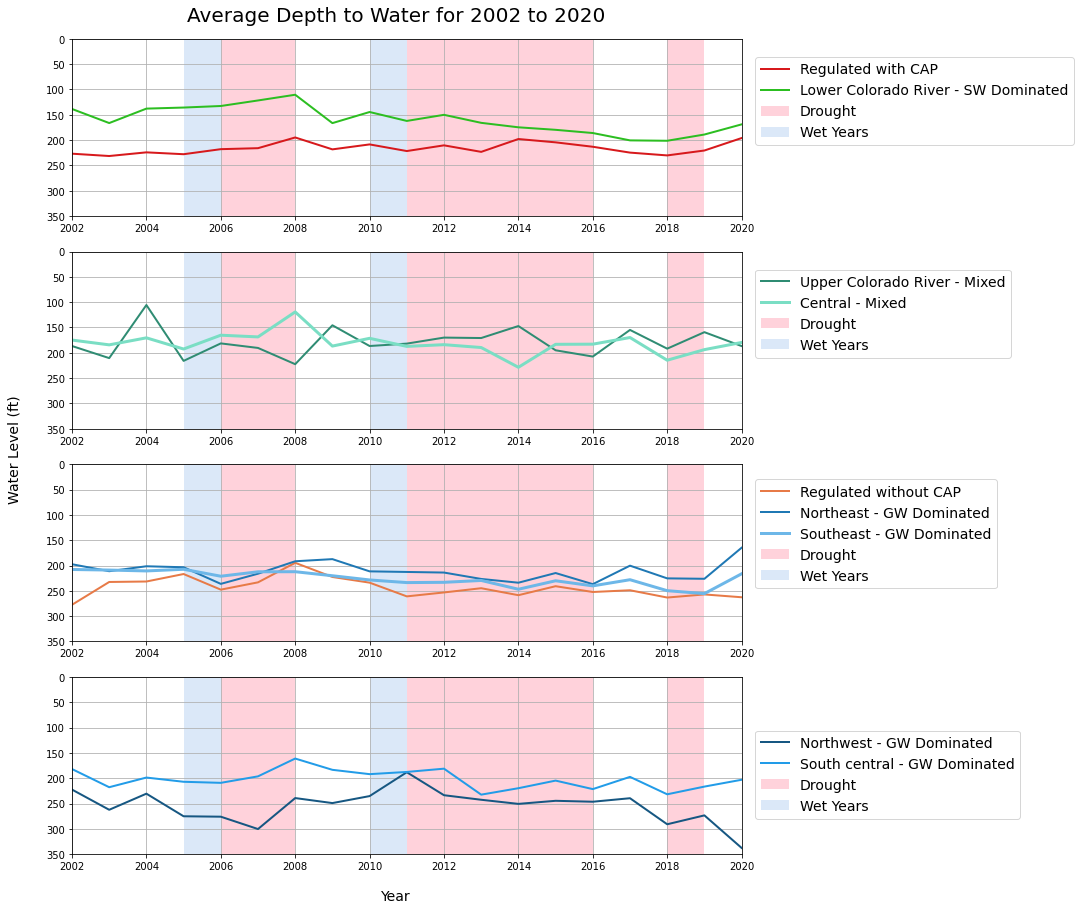
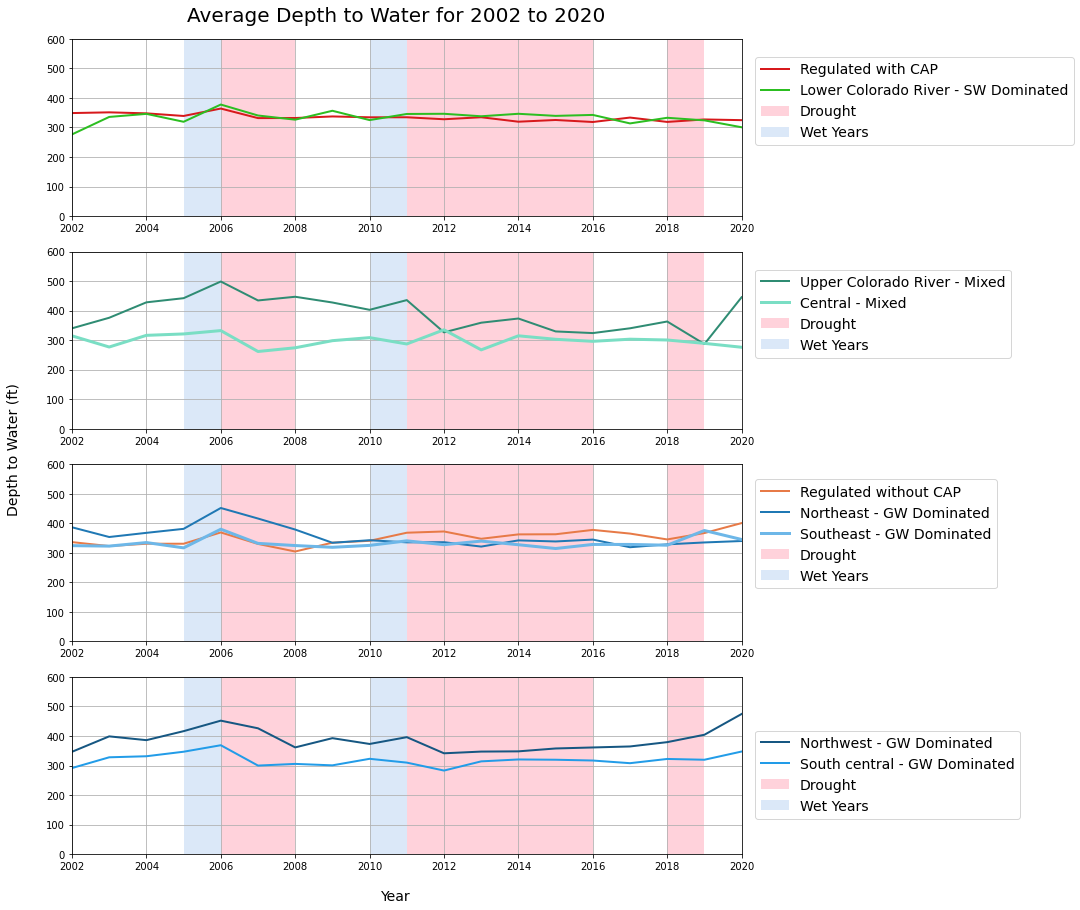
Fixing the for loop and generating more graphs

Changed region(s): [[0.0, 0.3077, 0.7028, 0.7077], [0.0306, 0.7692, 0.6722, 0.9231], [0.0306, 0.0615, 0.7028, 0.2154]]

diff --git a/SummaryCodes/Spatial_Analysis_Wells_FinalGeoreg.py b/SummaryCodes/Spatial_Analysis_Wells_FinalGeoreg.py
@@ -226,18 +226,45 @@ del cat_wl2_SW['GEOREGI_NU']
 # cat_wl2 = cat_wl2[1:]
 # del cat_wl2['GEO_Region']
 
-databases = [cat_wl2_georeg,cat_wl2_reg,cat_wl2_SW]
-for i in databases:
-        f = i.transpose()
-        # print(i)
-        f.reset_index(inplace=True)
-        f['index'] = pd.to_numeric(f['index'])
-        f['index'] = f['index'].astype(int)
-        f.set_index('index', inplace=True)
-        i = f
-        i.info()
+# databases = [cat_wl2_georeg,cat_wl2_reg,cat_wl2_SW]
+# for i in databases:
+#         # wlanalysis_period = cat_wl2[cat_wl2.index>=1975]
+#         f = i.transpose()
+#         # print(i)
+#         f.reset_index(inplace=True)
+#         f['index'] = pd.to_numeric(f['index'])
+#         f['index'] = f['index'].astype(int)
+#         f.set_index('index', inplace=True)
+#         f = f[f.index>=1975]
+#         i = f
+#         print(i.describe())
+
+i = cat_wl2_georeg
+f = i.transpose()
+f.reset_index(inplace=True)
+f['index'] = pd.to_numeric(f['index'])
+f['index'] = f['index'].astype(int)
+f.set_index('index', inplace=True)
+f.info()
+cat_wl2_georeg = f
         
-        
+i = cat_wl2_reg
+f = i.transpose()
+f.reset_index(inplace=True)
+f['index'] = pd.to_numeric(f['index'])
+f['index'] = f['index'].astype(int)
+f.set_index('index', inplace=True)
+f.info()
+cat_wl2_reg = f
+
+i = cat_wl2_SW
+f = i.transpose()
+f.reset_index(inplace=True)
+f['index'] = pd.to_numeric(f['index'])
+f['index'] = f['index'].astype(int)
+f.set_index('index', inplace=True)
+f.info()
+cat_wl2_SW = f
 # %% Going to export all these as CSV's
 # cat_wl2_georeg.to_csv('../MergedData/Output_files/Waterlevels_georegions.csv')
 # cat_wl2_reg.to_csv('../MergedData/Output_files/Waterlevels_Regulation.csv')
@@ -300,9 +327,13 @@ SW_colors = [c_2,c_3,c_4,c_5,c_7]
 ds = cat_wl2_reg
 minyear=1975
 maxyear=2020
-name = "Average Depth to Water from " + str(minyear) + " to " + str(maxyear) + ' by Groundwater Regulation'
-min_y = 0
-max_y = 300
+# name = "Average Depth to Water from " + str(minyear) + " to " + str(maxyear) + ' by Groundwater Regulation'
+name = "Average Depth to Water for Deep Wells by Groundwater Regulation" # wd1
+# name = "Average Depth to Water for Midrange Wells by Groundwater Regulation" # wd2
+# name = "Average Depth to Water for Shallow Wells by Groundwater Regulation" #wd3
+
+min_y = 150
+max_y = 450
 fsize = 14
 
 fig, ax = plt.subplots(figsize = (16,9))
@@ -311,7 +342,9 @@ ax.plot(ds['R'], label='GW Regulated', color=c_2)
 ax.plot(ds['U'], label='GW Unregulated', color=c_7) 
 ax.set_xlim(minyear,maxyear)
 ax.set_ylim(min_y,max_y)
-ax.grid(True)
+# ax.grid(True)
+ax.grid(visible=True,which='major')
+ax.grid(which='minor',color='#EEEEEE', lw=0.8)
 ax.set_title(name, fontsize=20)
 ax.set_xlabel('Year', fontsize=fsize)
 ax.set_ylabel('Depth to Water (ft)',fontsize=fsize)
@@ -335,20 +368,25 @@ plt.axvspan(e, f, color=drought_color, alpha=0.5, lw=0)
 plt.axvspan(g, h, color=drought_color, alpha=0.5, lw=0)
 plt.axvspan(i, j, color=drought_color, alpha=0.5, lw=0)
 plt.axvspan(k, l, color=drought_color, alpha=0.5, lw=0)
+ax.minorticks_on()
+
 
 fig.set_dpi(600.0)
 
 # plt.savefig(outputpath+name+'_byregulation', bbox_inches='tight')
-# plt.savefig(outputpath+name+'_byregulation_Drought', bbox_inches='tight')
+plt.savefig(outputpath+name+'_byregulation_Drought', bbox_inches='tight')
 
 
 #%% Plot by access to surfacewater
 ds = cat_wl2_SW
 minyear=1975
 maxyear=2020
-name = "Average Depth to Water from " + str(minyear) + " to " + str(maxyear) + " by Access to SW"
-min_y = 0
-max_y = 300
+# name = "Average Depth to Water from " + str(minyear) + " to " + str(maxyear) + " by Access to SW"
+# name = "Average Depth to Water for Deep Wells by Access to SW" # wd1
+# name = "Average Depth to Water for Midrange Wells by Access to SW" # wd2
+# name = "Average Depth to Water for Deep Wells by Access to SW" # wd3
+min_y = 150
+max_y = 500
 fsize = 14
 
 fig, ax = plt.subplots(figsize = (16,9))
@@ -368,24 +406,24 @@ ax.set_xlabel('Year', fontsize=fsize)
 ax.set_ylabel('Depth to Water (ft)',fontsize=fsize)
 ax.legend(loc = [1.04, 0.40], fontsize = fsize)
 # Drought Year Shading
-a = 1988.5
-b = 1990.5
-c = 1995.5
-d = 1996.5
-e = 2001.5
-f = 2003.5
-g = 2005.5
-h = 2007.5
-i = 2011.5
-j = 2014.5
-k = 2017.5
-l= 2018.5
-plt.axvspan(a, b, color=drought_color, alpha=0.5, lw=0, label="Drought")
-plt.axvspan(c, d, color=drought_color, alpha=0.5, lw=0)
-plt.axvspan(e, f, color=drought_color, alpha=0.5, lw=0)
-plt.axvspan(g, h, color=drought_color, alpha=0.5, lw=0)
-plt.axvspan(i, j, color=drought_color, alpha=0.5, lw=0)
-plt.axvspan(k, l, color=drought_color, alpha=0.5, lw=0)
+# a = 1988.5
+# b = 1990.5
+# c = 1995.5
+# d = 1996.5
+# e = 2001.5
+# f = 2003.5
+# g = 2005.5
+# h = 2007.5
+# i = 2011.5
+# j = 2014.5
+# k = 2017.5
+# l= 2018.5
+# plt.axvspan(a, b, color=drought_color, alpha=0.5, lw=0, label="Drought")
+# plt.axvspan(c, d, color=drought_color, alpha=0.5, lw=0)
+# plt.axvspan(e, f, color=drought_color, alpha=0.5, lw=0)
+# plt.axvspan(g, h, color=drought_color, alpha=0.5, lw=0)
+# plt.axvspan(i, j, color=drought_color, alpha=0.5, lw=0)
+# plt.axvspan(k, l, color=drought_color, alpha=0.5, lw=0)
 
 # # Wet years (2005 and 2010)
 # g = 2005
@@ -405,9 +443,13 @@ plt.savefig(outputpath+name+'_bySW', bbox_inches='tight')
 ds = cat_wl2_georeg
 minyear=1975
 maxyear=2020
-name = "Average Depth to Water from " + str(minyear) + " to " + str(maxyear)
-min_y = 0
-max_y = 400
+# name = "Average Depth to Water from " + str(minyear) + " to " + str(maxyear)
+name = "Average Depth to Water for Deep Wells by Georegion" # wd1
+# name = "Average Depth to Water for Midrange Wells by Georegion" # wd2
+# name = "Average Depth to Water for Deep Wells by Georegion" # wd3
+
+min_y = 150
+max_y = 600
 fsize = 14
 
 # Plot all of them on a single graph
@@ -417,7 +459,7 @@ ax.plot(ds[2.0], label='Regulated with CAP', color=c_2)
 ax.plot(ds[3.0], label='Regulated without CAP', color=c_3) 
 ax.plot(ds[4.0], color=c_4, label='Lower Colorado River - SW Dominated')
 ax.plot(ds[5.0], color=c_5, label='Upper Colorado River - Mixed')
-ax.plot(ds[10.0], color=c_10, label='North - Mixed')
+# ax.plot(ds[10.0], color=c_10, label='North - Mixed')
 ax.plot(ds[11.0], color=c_11, label='Central - Mixed')
 ax.plot(ds[7.0], color=c_7, label='Northwest - GW Dominated')
 ax.plot(ds[9.0], color=c_9, label='Northeast - GW Dominated')
@@ -533,13 +575,13 @@ ax.axvspan(g, e, color=wet_color, alpha=0.5, lw=0, label="Wet Years")
 ax.axvspan(h, a, color=wet_color, alpha=0.5, lw=0)
 
 # %% Plot in a four panel graph
-ds = cat_wl2
-minyear=1970
-maxyear=2020
-name = "Average Depth to Water for " + str(minyear) + " to " + str(maxyear)
-min_y = 0
-max_y = 400
-fsize = 14
+# ds = cat_wl2_georeg
+# minyear=1970
+# maxyear=2020
+# name = "Average Depth to Water for " + str(minyear) + " to " + str(maxyear)
+# min_y = 150
+# max_y = 400
+# fsize = 14
 ylabel = "Depth to Water (ft)"
 
 # del ds.at[2015, 10]
@@ -632,12 +674,12 @@ ax[1,1].axvspan(h, a, color=wet_color, alpha=0.5, lw=0)
 # plt.savefig(outputpath+name+'_4panel_drought')
 
 # %% Plot in a four panel 1 column graph
-ds = cat_wl2
-minyear=1975
-maxyear=2020
-name = "Average Depth to Water for " + str(minyear) + " to " + str(maxyear)
-min_y = 0
-max_y = 350
+# ds = cat_wl2_georeg
+# minyear=1975
+# maxyear=2020
+# name = "Average Depth to Water for " + str(minyear) + " to " + str(maxyear)
+min_y = 150
+max_y = 600
 fsize = 14
 ylabel = "Depth to Water (ft)"
 linewidth = 2
@@ -726,17 +768,17 @@ ax[p4].legend(loc = [1.02, 0.20], fontsize = fsize)
 
 # plt.savefig(outputpath+name+'_3panel', bbox_inches = 'tight') # bbox_inches makes sure the legend saves
 # plt.savefig(outputpath+name+'_4panel', bbox_inches = 'tight') # bbox_inches makes sure the legend saves
-plt.savefig(outputpath+name+'_4panel_1col', bbox_inches = 'tight') # bbox_inches makes sure the legend saves
+# plt.savefig(outputpath+name+'_4panel_1col', bbox_inches = 'tight') # bbox_inches makes sure the legend saves
 fig.set_dpi(600.0)
 
 # plt.savefig(outputpath+name+'_3panel_drought')
 # %% Plot in a four panel 1 column graph
-ds = cat_wl2
-minyear=2002
-maxyear=2020
-name = "Average Depth to Water for " + str(minyear) + " to " + str(maxyear)
-min_y = 0
-max_y = 350
+# ds = cat_wl2_georeg
+# minyear=2002
+# maxyear=2020
+# name = "Average Depth to Water for " + str(minyear) + " to " + str(maxyear)
+min_y = 150
+max_y = 600
 fsize = 14
 ylabel = "Depth to Water (ft)"
 linewidth = 2
@@ -823,7 +865,7 @@ ax[p4].legend(loc = [1.02, 0.20], fontsize = fsize)
 
 # plt.savefig(outputpath+name+'_3panel', bbox_inches = 'tight') # bbox_inches makes sure the legend saves
 # plt.savefig(outputpath+name+'_4panel', bbox_inches = 'tight') # bbox_inches makes sure the legend saves
-plt.savefig(outputpath+name+'_4panel_drought', bbox_inches = 'tight') # bbox_inches makes sure the legend saves
+# plt.savefig(outputpath+name+'_4panel_drought', bbox_inches = 'tight') # bbox_inches makes sure the legend saves
 
 # plt.savefig(outputpath+name+'_3panel_drought')
 
@@ -832,7 +874,7 @@ ds = cat_wl2_georeg
 minyear=1971
 maxyear=2020
 name = "Average Depth to Water for " + str(minyear) + " to " + str(maxyear)
-min_y = 0
+min_y = 150
 max_y = 350
 fsize = 14
 ylabel = "Depth to Water (ft)"
